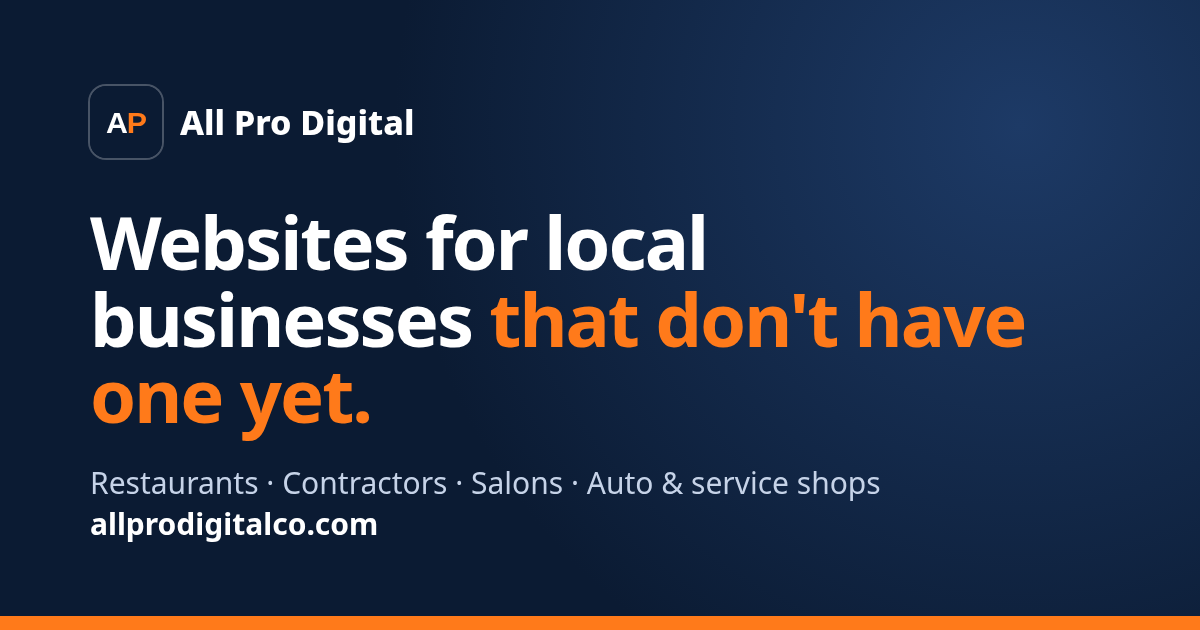
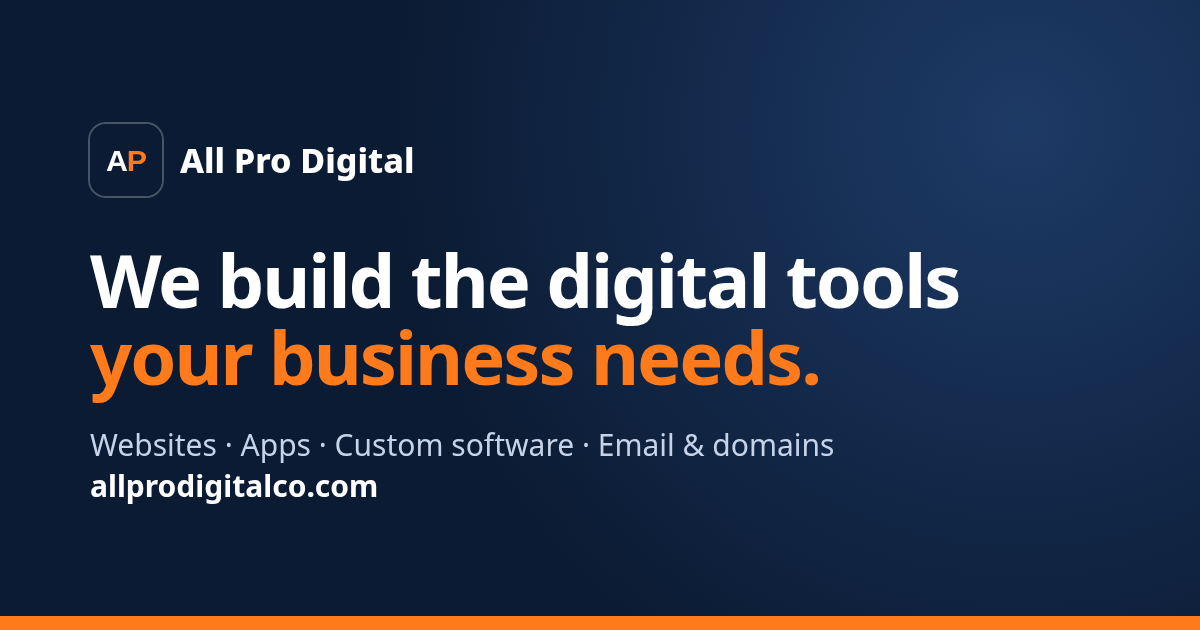
Location-neutral positioning: websites, apps and custom software for businesses anywhere

Changed region(s): [[0.0617, 0.3016, 0.8633, 0.8746], [0.0617, 0.1508, 0.37, 0.3016], [0.0925, 0.1206, 0.1233, 0.1508]]

diff --git a/index.html b/index.html
@@ -3,20 +3,20 @@
 <head>
 <meta charset="utf-8">
 <meta name="viewport" content="width=device-width, initial-scale=1">
-<title>All Pro Digital | Websites, business apps and tech setup in the Rio Grande Valley</title>
-<meta name="description" content="All Pro Digital, a Valley Pro Logistics LLC company in Rio Hondo, Texas, builds websites and custom business apps for local businesses, sets up business email and domains, and makes Service Tracker for field techs.">
+<title>All Pro Digital | Websites, apps and custom software for businesses anywhere</title>
+<meta name="description" content="All Pro Digital, a Valley Pro Logistics LLC company, designs and builds websites, mobile apps and custom software and sets up business email and domains for businesses anywhere, working remotely. Makers of Service Tracker for field techs.">
 <link rel="canonical" href="https://allprodigitalco.com/">
 <link rel="icon" href="/favicon.svg" type="image/svg+xml">
 <meta property="og:type" content="website">
 <meta property="og:site_name" content="All Pro Digital">
-<meta property="og:title" content="All Pro Digital | Websites, business apps and tech setup in the Rio Grande Valley">
-<meta property="og:description" content="All Pro Digital, a Valley Pro Logistics LLC company in Rio Hondo, Texas, builds websites and custom business apps for local businesses, sets up business email and domains, and makes Service Tracker for field techs.">
+<meta property="og:title" content="All Pro Digital | Websites, apps and custom software for businesses anywhere">
+<meta property="og:description" content="All Pro Digital, a Valley Pro Logistics LLC company, designs and builds websites, mobile apps and custom software and sets up business email and domains for businesses anywhere, working remotely. Makers of Service Tracker for field techs.">
 <meta property="og:url" content="https://allprodigitalco.com/">
 <meta property="og:image" content="https://allprodigitalco.com/og.png">
 <meta name="theme-color" content="#0b1b33">
 <link rel="stylesheet" href="/styles.css">
 <script type="application/ld+json">
-{"@context":"https://schema.org","@type":"Organization","name":"All Pro Digital","legalName":"Valley Pro Logistics LLC","url":"https://allprodigitalco.com/","logo":"https://allprodigitalco.com/favicon.svg","email":"richard@allprodigitalco.com","founder":{"@type":"Person","name":"Richard Atkinson"},"address":{"@type":"PostalAddress","addressLocality":"Rio Hondo","addressRegion":"TX","addressCountry":"US"},"areaServed":"Rio Grande Valley, Texas"}
+{"@context":"https://schema.org","@type":"Organization","name":"All Pro Digital","legalName":"Valley Pro Logistics LLC","url":"https://allprodigitalco.com/","logo":"https://allprodigitalco.com/favicon.svg","email":"richard@allprodigitalco.com","founder":{"@type":"Person","name":"Richard Atkinson"},"address":{"@type":"PostalAddress","addressLocality":"Rio Hondo","addressRegion":"TX","addressCountry":"US"}}
 </script>
 </head>
 <body>
@@ -37,9 +37,9 @@
 <main id="main">
 <div class="hero">
   <div class="wrap">
-    <p class="kicker light">Rio Hondo, Texas &middot; Rio Grande Valley</p>
-    <h1>Websites and business apps for <span>local businesses.</span></h1>
-    <p class="lead">All Pro Digital designs websites, builds custom business apps and sets up business email and domains for small businesses in the Rio Grande Valley. We also make Service Tracker, a voice job-log app for field mechanics and service techs.</p>
+    <p class="kicker light">Websites &middot; Apps &middot; Custom Software</p>
+    <h1>We build the digital tools <span>your business needs.</span></h1>
+    <p class="lead">From websites and mobile apps to custom software, business email and domains, All Pro Digital helps businesses anywhere design, build and launch the technology they need to grow, working remotely with clients across the U.S. and beyond. We also make Service Tracker, a voice job-log app for field mechanics and service techs.</p>
     <div class="actions">
       <a class="btn" href="/services">See our services</a>
       <a class="btn ghost" href="mailto:richard@allprodigitalco.com?subject=Question%20for%20All%20Pro%20Digital">Email us</a>
@@ -50,8 +50,8 @@
 <section>
   <div class="wrap">
     <p class="kicker">What we do</p>
-    <h2>Practical technology for small businesses</h2>
-    <p class="sub">We work with owner-run businesses that need to be easy to find online, want to stop running the day on paper, or just need their email and domain set up the right way.</p>
+    <h2>Technology built around your business</h2>
+    <p class="sub">Whether you need to be easier to find online, want to replace paperwork with an app built for your team, or need business email and domains set up the right way, we plan it, build it and support it.</p>
     <div class="grid three">
       <article class="card">
         <div class="icon" aria-hidden="true">
@@ -65,15 +65,15 @@
         <div class="icon" aria-hidden="true">
           <svg viewBox="0 0 24 24"><rect x="6" y="2" width="12" height="20" rx="2"/><path d="M10 18h4M9 7h6M9 11h6"/></svg>
         </div>
-        <h3>Custom business apps</h3>
-        <p>Simple apps and tools built around the way your business already works: job tracking, work orders, checklists, customer records and reports.</p>
+        <h3>Custom apps and software</h3>
+        <p>Mobile apps, web apps and custom tools built around the way your business already works: job tracking, work orders, checklists, customer records and reports.</p>
         <p class="more"><a href="/services#apps">Custom app details</a></p>
       </article>
       <article class="card">
         <div class="icon" aria-hidden="true">
           <svg viewBox="0 0 24 24"><rect x="3" y="5" width="18" height="14" rx="2"/><path d="m3 7 9 6 9-6"/></svg>
         </div>
-        <h3>Small-business tech setup</h3>
+        <h3>Business email and tech setup</h3>
         <p>Professional email on your own domain with Google Workspace, domain registration and DNS, and help getting your team's accounts and devices set up.</p>
         <p class="more"><a href="/services#tech-setup">Tech setup details</a></p>
       </article>
@@ -110,8 +110,8 @@
 <section>
   <div class="wrap">
     <p class="kicker">Who we work with</p>
-    <h2>Built for local, hands-on businesses</h2>
-    <p class="sub">If most of your customers find you on their phone, or most of your work happens away from a desk, we can help.</p>
+    <h2>Built for businesses of every kind</h2>
+    <p class="sub">From storefronts to field crews, if your customers find you online or your work happens away from a desk, we can help, wherever you are.</p>
     <ul class="pills">
       <li>Restaurants and food trucks</li>
       <li>Contractors and trades</li>
@@ -120,7 +120,7 @@
       <li>Equipment and field service companies</li>
       <li>Farms, ranches and ag services</li>
       <li>Retail shops</li>
-      <li>Other small businesses and nonprofits</li>
+      <li>Startups, growing businesses and nonprofits</li>
     </ul>
   </div>
 </section>
@@ -132,7 +132,7 @@
     <ol class="steps">
       <li><h3>Tell us what you need</h3><p>Send an email describing your business and what you want done. A few sentences is enough to start.</p></li>
       <li><h3>Get a plan and a quote</h3><p>We talk it through, ask what matters most to you, and send a written plan and price before any work begins.</p></li>
-      <li><h3>We build it with you</h3><p>You see the work as it comes together and can ask for changes along the way.</p></li>
+      <li><h3>We build it with you</h3><p>We work together by email and video call, so location is never a barrier. You see the work as it comes together and can ask for changes along the way.</p></li>
       <li><h3>Launch and support</h3><p>We put it live on your domain, show you how to use it, and stay available for updates.</p></li>
     </ol>
   </div>
@@ -143,7 +143,7 @@
     <div class="contact-box">
       <div>
         <h2>Have a project in mind?</h2>
-        <p>Email us about a website, an app, business email or Service Tracker.</p>
+        <p>Email us about a website, an app, custom software, business email or Service Tracker.</p>
       </div>
       <div class="actions">
         <a class="btn" href="mailto:richard@allprodigitalco.com?subject=Project%20inquiry">richard@allprodigitalco.com</a>
@@ -158,7 +158,7 @@
     <div class="foot-grid">
       <div>
         <p class="foot-brand">All Pro Digital, a Valley Pro Logistics LLC company</p>
-        <p>Websites, custom business apps and small-business tech setup.<br>Rio Hondo, Texas, serving the Rio Grande Valley.</p>
+        <p>Websites, apps, custom software and business tech setup.<br>Based in Rio Hondo, Texas. Working with businesses anywhere.</p>
         <p><a href="mailto:richard@allprodigitalco.com">richard@allprodigitalco.com</a></p>
       </div>
       <nav aria-label="Footer">

diff --git a/services.html b/services.html
@@ -4,13 +4,13 @@
 <meta charset="utf-8">
 <meta name="viewport" content="width=device-width, initial-scale=1">
 <title>Services | All Pro Digital</title>
-<meta name="description" content="Website design for local businesses, custom business apps, and small-business tech setup including Google Workspace email and domain names. All Pro Digital, Rio Hondo, Texas.">
+<meta name="description" content="Website design, custom mobile and web apps, custom software, and business tech setup including Google Workspace email and domain names. All Pro Digital works remotely with businesses anywhere.">
 <link rel="canonical" href="https://allprodigitalco.com/services">
 <link rel="icon" href="/favicon.svg" type="image/svg+xml">
 <meta property="og:type" content="website">
 <meta property="og:site_name" content="All Pro Digital">
 <meta property="og:title" content="Services | All Pro Digital">
-<meta property="og:description" content="Website design for local businesses, custom business apps, and small-business tech setup including Google Workspace email and domain names. All Pro Digital, Rio Hondo, Texas.">
+<meta property="og:description" content="Website design, custom mobile and web apps, custom software, and business tech setup including Google Workspace email and domain names. All Pro Digital works remotely with businesses anywhere.">
 <meta property="og:url" content="https://allprodigitalco.com/services">
 <meta property="og:image" content="https://allprodigitalco.com/og.png">
 <meta name="theme-color" content="#0b1b33">
@@ -36,10 +36,10 @@
   <div class="wrap">
     <p class="kicker light">Services</p>
     <h1>What we can do for <span>your business.</span></h1>
-    <p class="lead">Three kinds of work, all aimed at small, local businesses: websites that bring in customers, apps that replace paperwork, and the everyday tech setup that makes a business look and run professionally.</p>
+    <p class="lead">Websites that bring in customers, apps and custom software that replace paperwork, and the everyday tech setup that makes a business look and run professionally. Whatever your business needs built, we plan it, build it and support it, working remotely with clients wherever they are.</p>
     <nav class="jump" aria-label="On this page">
       <a href="#websites">Website design</a>
-      <a href="#apps">Custom business apps</a>
+      <a href="#apps">Apps and custom software</a>
       <a href="#tech-setup">Tech setup</a>
     </nav>
   </div>
@@ -49,15 +49,15 @@
   <div class="wrap split">
     <div>
       <p class="kicker">Service 1</p>
-      <h2>Website design for local businesses</h2>
+      <h2>Website design and development</h2>
       <p>For businesses that don't have a website yet, or have one that is out of date, hard to use on a phone, or stuck on a page builder you can't manage. We design and build a site that tells customers what you do and makes it easy for them to call, visit or book.</p>
-      <p>Good fit for restaurants, contractors, salons, auto and service shops, and other local businesses.</p>
+      <p>Good fit for restaurants, contractors, salons, auto and service shops, professional services and other growing businesses.</p>
     </div>
     <div class="card">
       <h3>What's included</h3>
       <ul class="checks">
         <li>A custom design that fits your business and brand</li>
-        <li>Mobile-first layout, since most local searches happen on phones</li>
+        <li>Mobile-first layout, since most customers search on their phones</li>
         <li>Pages for your services, hours, location, photos and contact details</li>
         <li>Menus, price lists or service lists that are easy to update</li>
         <li>Setup on your own domain name with a secure (HTTPS) connection</li>
@@ -73,8 +73,8 @@
   <div class="wrap split">
     <div>
       <p class="kicker">Service 2</p>
-      <h2>Custom business apps</h2>
-      <p>Many small businesses still run on paper forms, whiteboards, text messages and spreadsheets. We build simple phone and web apps that fit the way you already work, so information gets recorded once and is there when you need it.</p>
+      <h2>Custom apps and software</h2>
+      <p>Many businesses still run on paper forms, whiteboards, text messages and spreadsheets. We build phone apps, web apps and custom software that fit the way you already work, so information gets recorded once and is there when you need it.</p>
       <p>Our own app, <a href="/service-tracker">Service Tracker</a>, is an example of the kind of focused tool we build: one job, done well, usable by someone with dirty hands and a phone.</p>
     </div>
     <div class="card">
@@ -87,6 +87,7 @@
         <li>Scheduling and dispatch boards</li>
         <li>Simple dashboards and reports for owners and managers</li>
         <li>Internal tools for iPhone, Android and the web</li>
+        <li>Custom software and digital systems built around your workflow</li>
       </ul>
     </div>
   </div>
@@ -96,7 +97,7 @@
   <div class="wrap split">
     <div>
       <p class="kicker">Service 3</p>
-      <h2>Small-business tech setup</h2>
+      <h2>Business email and tech setup</h2>
       <p>A business email address like you@yourbusiness.com looks more trustworthy than a free email account, and it stays with the business when people come and go. We get the pieces set up correctly so you don't have to figure out DNS records and admin consoles yourself.</p>
     </div>
     <div class="card">
@@ -134,8 +135,8 @@
         <p>Google Workspace gives you email at your own domain, admin control over your team's accounts, and business-grade storage and support. It works in the same Gmail app you already know.</p>
       </details>
       <details>
-        <summary>Do you only work with businesses in the Rio Grande Valley?</summary>
-        <p>We are based in Rio Hondo and focus on the Rio Grande Valley, but most of this work can be done by email and video call, so businesses elsewhere are welcome to reach out.</p>
+        <summary>Can you work with my business if we're not nearby?</summary>
+        <p>Yes. We work with businesses anywhere. Planning, design, development, launch and support are all handled remotely by email and video call, so your location is never a barrier.</p>
       </details>
     </div>
   </div>
@@ -161,7 +162,7 @@
     <div class="foot-grid">
       <div>
         <p class="foot-brand">All Pro Digital, a Valley Pro Logistics LLC company</p>
-        <p>Websites, custom business apps and small-business tech setup.<br>Rio Hondo, Texas, serving the Rio Grande Valley.</p>
+        <p>Websites, apps, custom software and business tech setup.<br>Based in Rio Hondo, Texas. Working with businesses anywhere.</p>
         <p><a href="mailto:richard@allprodigitalco.com">richard@allprodigitalco.com</a></p>
       </div>
       <nav aria-label="Footer">

diff --git a/about.html b/about.html
@@ -4,13 +4,13 @@
 <meta charset="utf-8">
 <meta name="viewport" content="width=device-width, initial-scale=1">
 <title>About | All Pro Digital, a Valley Pro Logistics LLC company</title>
-<meta name="description" content="All Pro Digital is a Valley Pro Logistics LLC company based in Rio Hondo, Texas, building websites, business apps and tech setups for businesses in the Rio Grande Valley.">
+<meta name="description" content="All Pro Digital is a Valley Pro Logistics LLC company based in Rio Hondo, Texas, building websites, apps and custom software for businesses anywhere, working remotely.">
 <link rel="canonical" href="https://allprodigitalco.com/about">
 <link rel="icon" href="/favicon.svg" type="image/svg+xml">
 <meta property="og:type" content="website">
 <meta property="og:site_name" content="All Pro Digital">
 <meta property="og:title" content="About | All Pro Digital, a Valley Pro Logistics LLC company">
-<meta property="og:description" content="All Pro Digital is a Valley Pro Logistics LLC company based in Rio Hondo, Texas, building websites, business apps and tech setups for businesses in the Rio Grande Valley.">
+<meta property="og:description" content="All Pro Digital is a Valley Pro Logistics LLC company based in Rio Hondo, Texas, building websites, apps and custom software for businesses anywhere, working remotely.">
 <meta property="og:url" content="https://allprodigitalco.com/about">
 <meta property="og:image" content="https://allprodigitalco.com/og.png">
 <meta name="theme-color" content="#0b1b33">
@@ -35,8 +35,8 @@
 <div class="hero page">
   <div class="wrap">
     <p class="kicker light">About</p>
-    <h1>A local business, <span>built in Rio Hondo.</span></h1>
-    <p class="lead">All Pro Digital is a small, owner-run technology business in Rio Hondo, Texas, serving businesses across the Rio Grande Valley.</p>
+    <h1>A hands-on technology partner, <span>wherever you are.</span></h1>
+    <p class="lead">All Pro Digital is an owner-run technology company that designs and builds websites, apps and custom software for businesses anywhere, working remotely with clients across the U.S. and beyond.</p>
   </div>
 </div>
 
@@ -45,7 +45,7 @@
     <p class="entity">All Pro Digital is a Valley Pro Logistics LLC company. Valley Pro Logistics LLC is the legal business behind All Pro Digital and the Service Tracker app.</p>
     <h2>Who is behind All Pro Digital</h2>
     <p>All Pro Digital is owned and run by Richard Atkinson. When you email us, you are talking to the person who will plan and build your project, not a call center or a sales team.</p>
-    <p>We focus on the businesses that keep the Valley running, from restaurants and shops to mechanics and contractors. Many of them have no website, or track their work on paper, in text messages, or in their heads. We build practical tools that solve those problems without adding complexity.</p>
+    <p>We work with the businesses that keep things running, from restaurants and shops to mechanics, contractors and field service companies. Many of them have no website, or track their work on paper, in text messages, or in their heads. We build practical tools that solve those problems without adding complexity.</p>
     <p>Our first product, <a href="/service-tracker">Service Tracker</a>, is built on the same idea: field mechanics and service techs shouldn't have to spend their evenings writing up the day's jobs.</p>
 
     <h2>How we work</h2>
@@ -63,8 +63,8 @@
         <p>We build around how your business already runs, instead of making you change everything to fit the software.</p>
       </div>
       <div>
-        <h3>Local and reachable</h3>
-        <p>We're based in the Rio Grande Valley and easy to reach by email when you need a change or have a question.</p>
+        <h3>Remote and reachable</h3>
+        <p>We work with clients by email and video call wherever they are, and we're easy to reach when you need a change or have a question.</p>
       </div>
     </div>
 
@@ -73,8 +73,9 @@
       <dt>Brand</dt><dd>All Pro Digital</dd>
       <dt>Legal entity</dt><dd>Valley Pro Logistics LLC</dd>
       <dt>Owner</dt><dd>Richard Atkinson</dd>
-      <dt>Location</dt><dd>Rio Hondo, Texas, USA (Cameron County, Rio Grande Valley)</dd>
-      <dt>Services</dt><dd>Website design, custom business apps, small-business tech setup</dd>
+      <dt>Based in</dt><dd>Rio Hondo, Texas, USA</dd>
+      <dt>Clients</dt><dd>Businesses anywhere; all work can be done remotely</dd>
+      <dt>Services</dt><dd>Website design, mobile and web apps, custom software, business email and tech setup</dd>
       <dt>Products</dt><dd>Service Tracker (coming soon to iPhone and Android)</dd>
       <dt>Website</dt><dd><a href="/">allprodigitalco.com</a></dd>
       <dt>Email</dt><dd><a href="mailto:richard@allprodigitalco.com">richard@allprodigitalco.com</a></dd>
@@ -87,7 +88,7 @@
     <div class="contact-box">
       <div>
         <h2>Let's talk about your business</h2>
-        <p>Questions about a website, an app, tech setup or Service Tracker are all welcome.</p>
+        <p>Questions about a website, an app, custom software, tech setup or Service Tracker are all welcome.</p>
       </div>
       <div class="actions">
         <a class="btn" href="/contact">Contact us</a>
@@ -102,7 +103,7 @@
     <div class="foot-grid">
       <div>
         <p class="foot-brand">All Pro Digital, a Valley Pro Logistics LLC company</p>
-        <p>Websites, custom business apps and small-business tech setup.<br>Rio Hondo, Texas, serving the Rio Grande Valley.</p>
+        <p>Websites, apps, custom software and business tech setup.<br>Based in Rio Hondo, Texas. Working with businesses anywhere.</p>
         <p><a href="mailto:richard@allprodigitalco.com">richard@allprodigitalco.com</a></p>
       </div>
       <nav aria-label="Footer">

diff --git a/contact.html b/contact.html
@@ -4,13 +4,13 @@
 <meta charset="utf-8">
 <meta name="viewport" content="width=device-width, initial-scale=1">
 <title>Contact | All Pro Digital</title>
-<meta name="description" content="Contact All Pro Digital in Rio Hondo, Texas by email at richard@allprodigitalco.com about websites, business apps, tech setup or Service Tracker.">
+<meta name="description" content="Contact All Pro Digital by email at richard@allprodigitalco.com about websites, apps, custom software, business email and domains, or Service Tracker. We work with businesses anywhere.">
 <link rel="canonical" href="https://allprodigitalco.com/contact">
 <link rel="icon" href="/favicon.svg" type="image/svg+xml">
 <meta property="og:type" content="website">
 <meta property="og:site_name" content="All Pro Digital">
 <meta property="og:title" content="Contact | All Pro Digital">
-<meta property="og:description" content="Contact All Pro Digital in Rio Hondo, Texas by email at richard@allprodigitalco.com about websites, business apps, tech setup or Service Tracker.">
+<meta property="og:description" content="Contact All Pro Digital by email at richard@allprodigitalco.com about websites, apps, custom software, business email and domains, or Service Tracker. We work with businesses anywhere.">
 <meta property="og:url" content="https://allprodigitalco.com/contact">
 <meta property="og:image" content="https://allprodigitalco.com/og.png">
 <meta name="theme-color" content="#0b1b33">
@@ -45,7 +45,7 @@
     <div>
       <h2>Email</h2>
       <p class="big-mail"><a href="mailto:richard@allprodigitalco.com">richard@allprodigitalco.com</a></p>
-      <p>Use this address for questions about websites, custom apps, business email and domain setup, Service Tracker, privacy requests, or anything else.</p>
+      <p>Use this address for questions about websites, apps, custom software, business email and domain setup, Service Tracker, privacy requests, or anything else.</p>
       <div class="actions">
         <a class="btn" href="mailto:richard@allprodigitalco.com?subject=Website%20for%20my%20business">Ask about a website</a>
         <a class="btn outline" href="mailto:richard@allprodigitalco.com?subject=Custom%20business%20app">Ask about an app</a>
@@ -62,8 +62,8 @@
         <li>Your current website or domain, if you have one</li>
         <li>Any deadline you're working toward</li>
       </ul>
-      <h3>Where we are</h3>
-      <p>All Pro Digital, a Valley Pro Logistics LLC company<br>Rio Hondo, Texas, USA<br>Serving the Rio Grande Valley</p>
+      <h3>Where we're based</h3>
+      <p>All Pro Digital, a Valley Pro Logistics LLC company<br>Rio Hondo, Texas, USA<br>Working with businesses anywhere, remotely by email and video call</p>
     </div>
   </div>
 </section>
@@ -74,7 +74,7 @@
     <div class="foot-grid">
       <div>
         <p class="foot-brand">All Pro Digital, a Valley Pro Logistics LLC company</p>
-        <p>Websites, custom business apps and small-business tech setup.<br>Rio Hondo, Texas, serving the Rio Grande Valley.</p>
+        <p>Websites, apps, custom software and business tech setup.<br>Based in Rio Hondo, Texas. Working with businesses anywhere.</p>
         <p><a href="mailto:richard@allprodigitalco.com">richard@allprodigitalco.com</a></p>
       </div>
       <nav aria-label="Footer">

diff --git a/terms.html b/terms.html
@@ -39,7 +39,7 @@
   <p>These terms apply to your use of the allprodigitalco.com website. The website is operated by Valley Pro Logistics LLC, doing business as All Pro Digital, based in Rio Hondo, Texas ("we", "us"). By using this website you agree to these terms.</p>
 
   <h2>About this website</h2>
-  <p>This website describes the services and products offered by All Pro Digital, including website design, custom business apps, small-business tech setup, and the Service Tracker app. The information here is provided for general information and may change at any time.</p>
+  <p>This website describes the services and products offered by All Pro Digital, including website design, mobile and web apps, custom software, business email and tech setup, and the Service Tracker app. The information here is provided for general information and may change at any time.</p>
 
   <h2>Services and pricing</h2>
   <p>Descriptions of our services on this website are not an offer or a contract. Any website, app or tech setup project is governed by the written quote or agreement we provide for that project. Service Tracker is not yet available; its features and plan prices shown here describe what we plan to offer at launch and may change before release. When Service Tracker is released, use of the app will be subject to its own terms and to the <a href="/privacy">Privacy Policy</a>.</p>
@@ -75,7 +75,7 @@
     <div class="foot-grid">
       <div>
         <p class="foot-brand">All Pro Digital, a Valley Pro Logistics LLC company</p>
-        <p>Websites, custom business apps and small-business tech setup.<br>Rio Hondo, Texas, serving the Rio Grande Valley.</p>
+        <p>Websites, apps, custom software and business tech setup.<br>Based in Rio Hondo, Texas. Working with businesses anywhere.</p>
         <p><a href="mailto:richard@allprodigitalco.com">richard@allprodigitalco.com</a></p>
       </div>
       <nav aria-label="Footer">

diff --git a/privacy.html b/privacy.html
@@ -121,7 +121,7 @@
     <div class="foot-grid">
       <div>
         <p class="foot-brand">All Pro Digital, a Valley Pro Logistics LLC company</p>
-        <p>Websites, custom business apps and small-business tech setup.<br>Rio Hondo, Texas, serving the Rio Grande Valley.</p>
+        <p>Websites, apps, custom software and business tech setup.<br>Based in Rio Hondo, Texas. Working with businesses anywhere.</p>
         <p><a href="mailto:richard@allprodigitalco.com">richard@allprodigitalco.com</a></p>
       </div>
       <nav aria-label="Footer">

diff --git a/service-tracker.html b/service-tracker.html
@@ -154,7 +154,7 @@
     <div class="foot-grid">
       <div>
         <p class="foot-brand">All Pro Digital, a Valley Pro Logistics LLC company</p>
-        <p>Websites, custom business apps and small-business tech setup.<br>Rio Hondo, Texas, serving the Rio Grande Valley.</p>
+        <p>Websites, apps, custom software and business tech setup.<br>Based in Rio Hondo, Texas. Working with businesses anywhere.</p>
         <p><a href="mailto:richard@allprodigitalco.com">richard@allprodigitalco.com</a></p>
       </div>
       <nav aria-label="Footer">

diff --git a/404.html b/404.html
@@ -50,7 +50,7 @@
     <div class="foot-grid">
       <div>
         <p class="foot-brand">All Pro Digital, a Valley Pro Logistics LLC company</p>
-        <p>Websites, custom business apps and small-business tech setup.<br>Rio Hondo, Texas, serving the Rio Grande Valley.</p>
+        <p>Websites, apps, custom software and business tech setup.<br>Based in Rio Hondo, Texas. Working with businesses anywhere.</p>
         <p><a href="mailto:richard@allprodigitalco.com">richard@allprodigitalco.com</a></p>
       </div>
       <nav aria-label="Footer">
